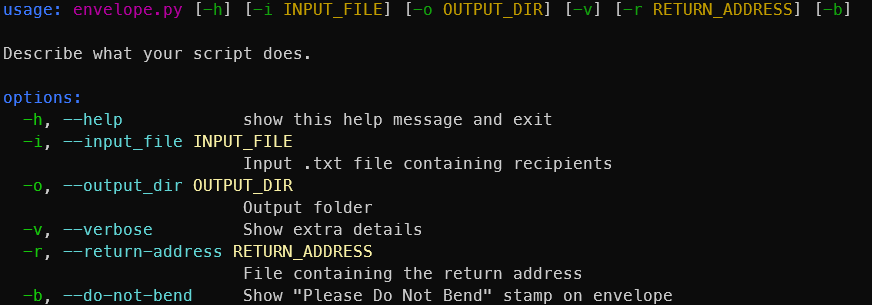
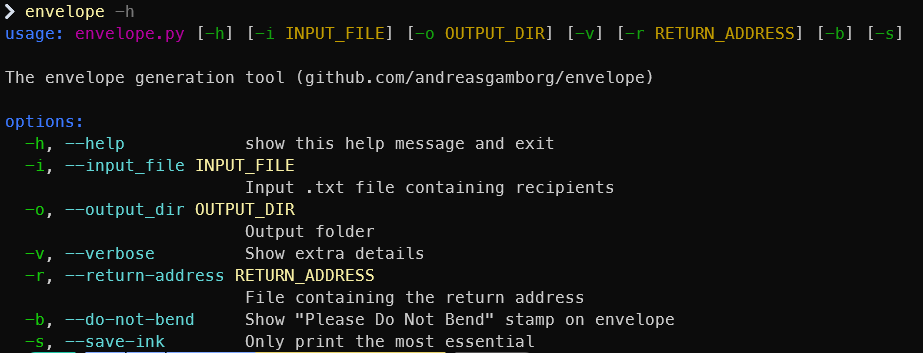
[REF] Update readme

Changed region(s): [[0.0, 0.2951, 0.7741, 1.0], [0.0, 0.0, 0.9908, 0.118], [0.0, 0.1475, 0.7122, 0.2361]]

diff --git a/envelope.py b/envelope.py
@@ -291,7 +291,7 @@ def make_envelope(
 
 def main():
 
-    parser = argparse.ArgumentParser(description="Describe what your script does.")
+    parser = argparse.ArgumentParser(description="The envelope generation tool (github.com/andreasgamborg/envelope)")
     parser.add_argument(
         "-i",
         "--input_file",

diff --git a/README.md b/README.md
@@ -3,20 +3,30 @@
 Nothing fancy, just a python script that can generate a fold-it-yourself envelope on A4 paper
 
 ## Usage
+Show the help with
  ```sh
   envelope.py -h
 ```
-![alt text](resources/help.png)
+![help](resources/help.png)
 
-Take a look at examples/
+Example:  
+Make all the addresses in *wedding.txt* into envelopes and place them in the directory **wedding_envelopes/**. Print the return address from *my_address.txt* on all of them. Include the "Please, do not bend" stamp and use ink save mode.
+ ```sh
+  envelope.py -i wedding.txt -o wedding_envelopes -r my_address.txt -b -s
+```
+
+Take a look at **examples/** for how to write input and address files.
 
 ## "Install"
 
   Make a .bat file with the following content
 
   ```bat
+  @echo off
   python [path]\envelope.py %*
   ```
 
   and place it anywhere in your PATH.
   
+## Folding instructions
+![envelope_fold_instructions](resources/envelope_fold_instructions.png)
